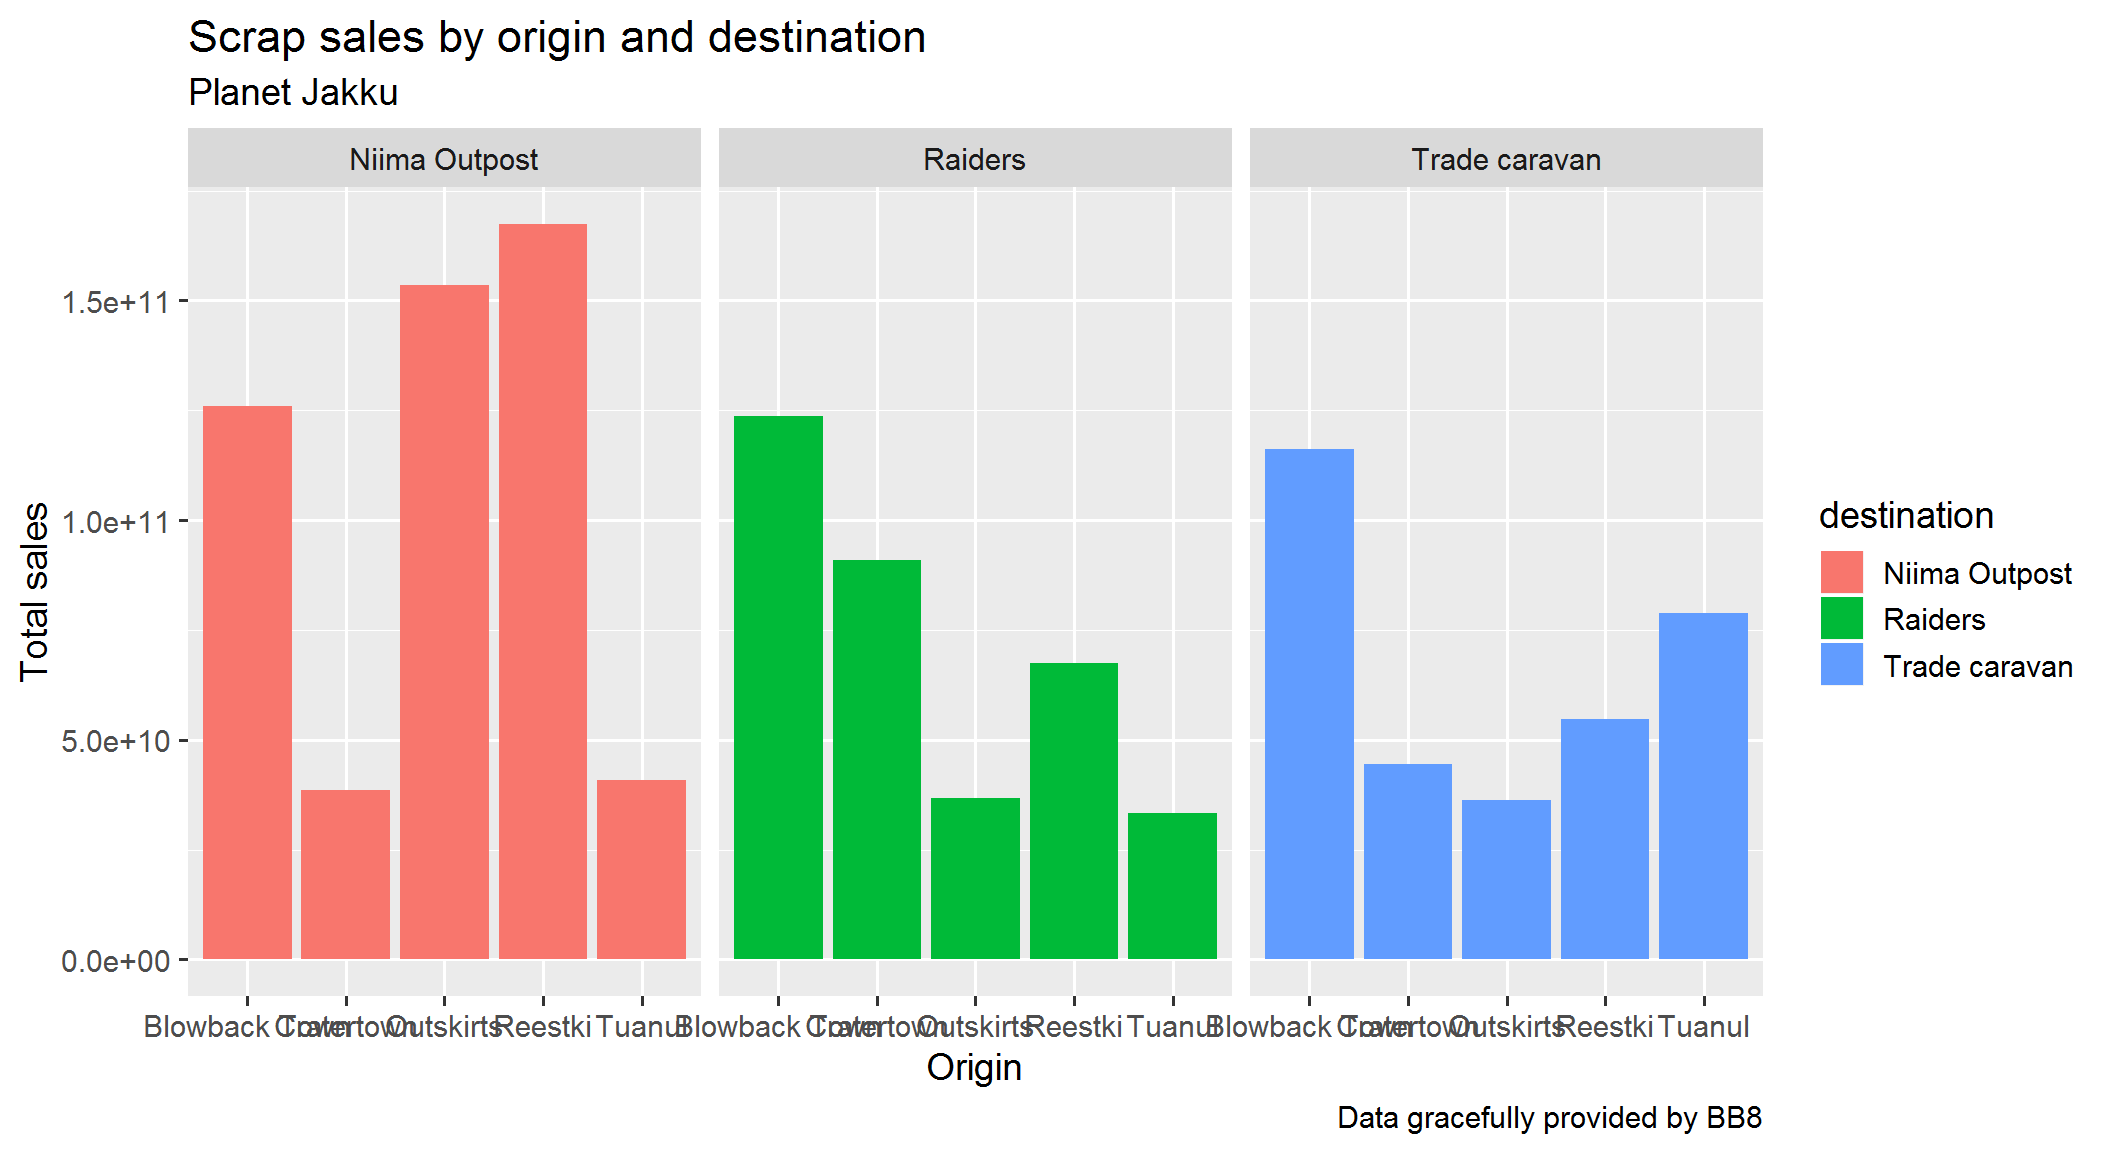
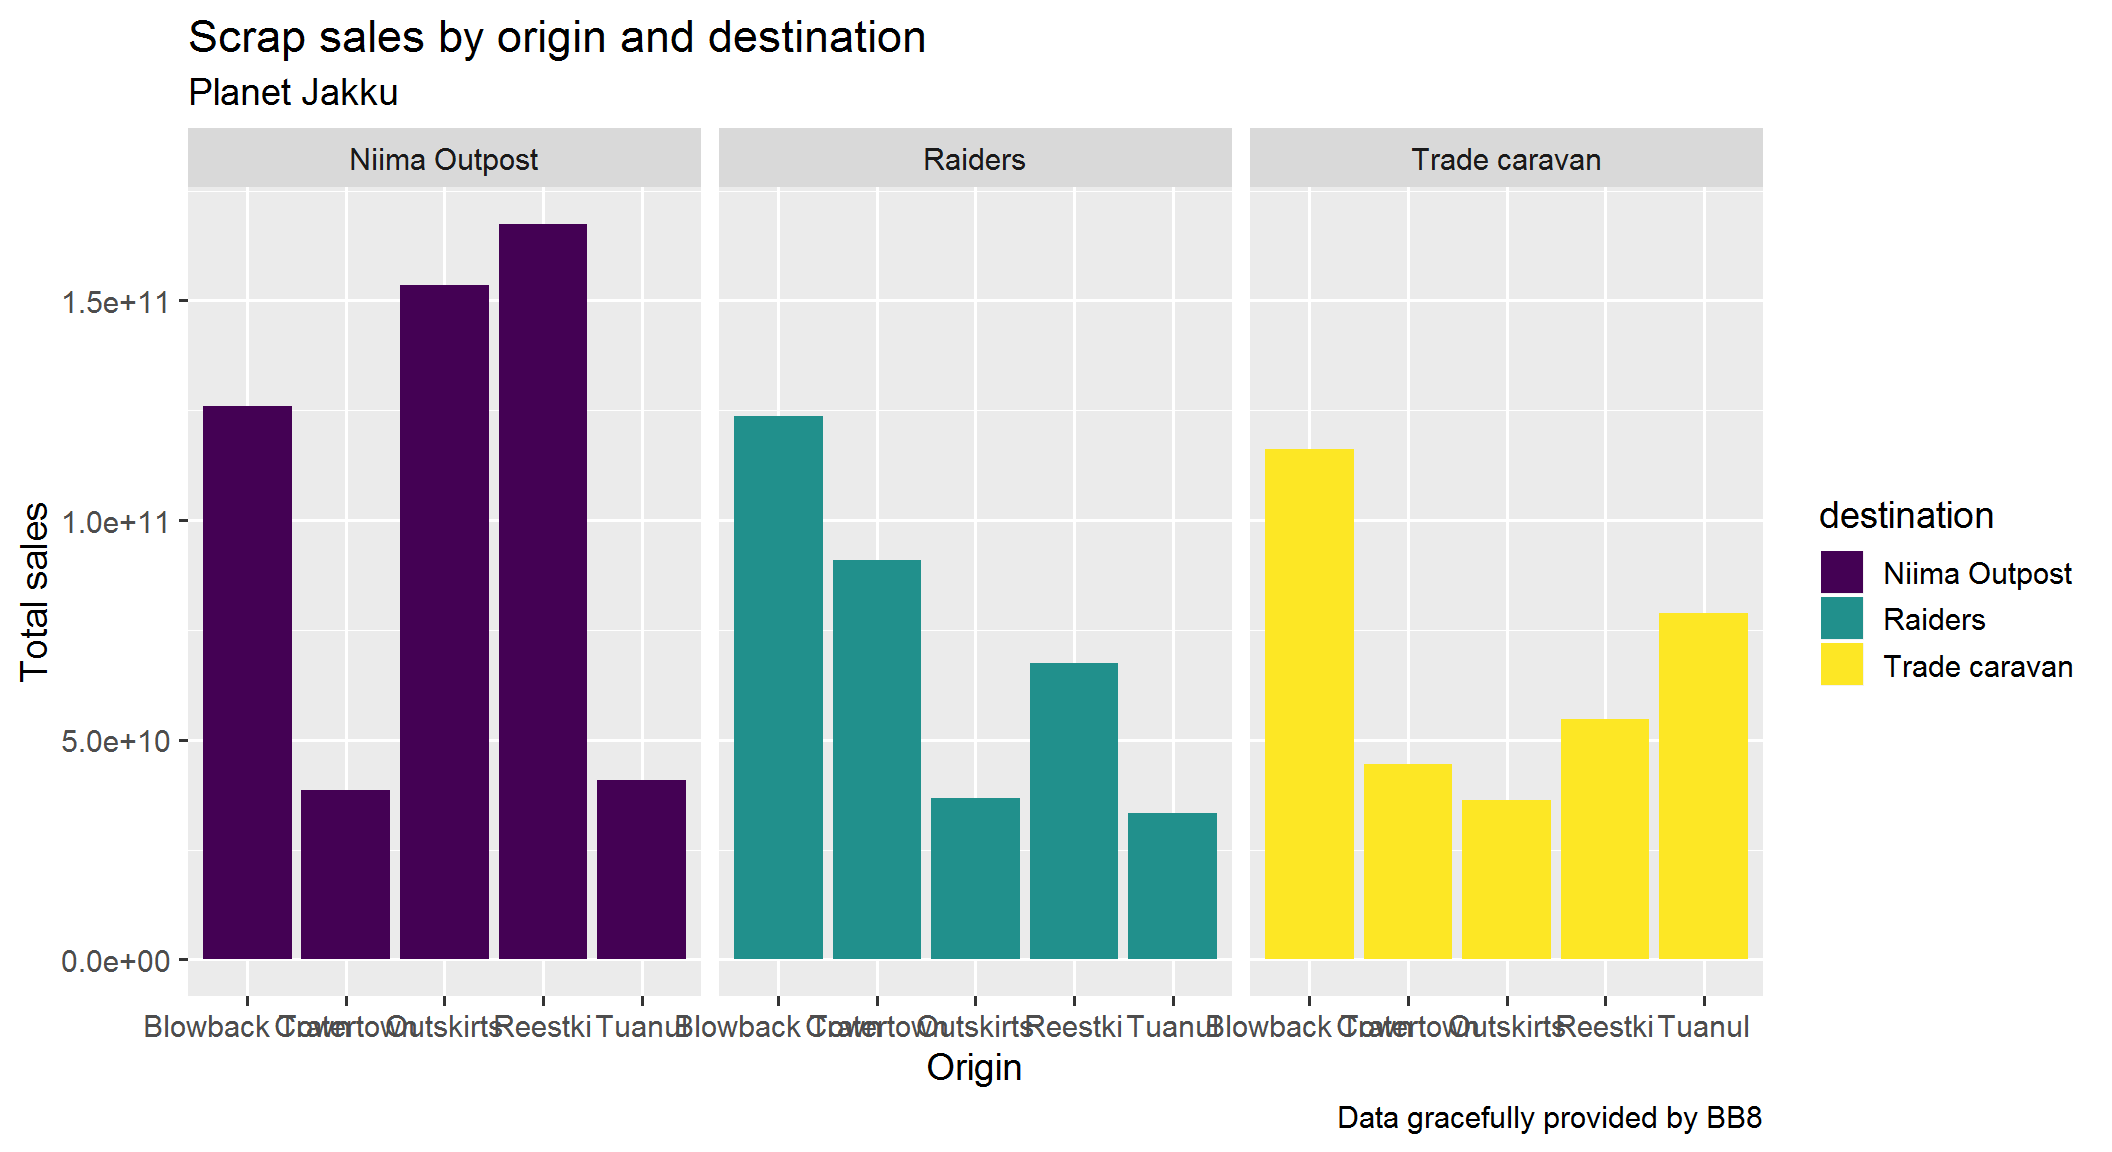
add chart options

Changed region(s): [[0.0938, 0.1875, 0.9062, 0.8438]]

diff --git a/04_Day4.html b/04_Day4.html
@@ -359,7 +359,7 @@ div.tocify {
 </ul>
 <p><strong>Open a New script</strong></p>
 <ul>
-<li><strong>File &gt; New File &gt; R Script</strong></li>
+<li><code>File &gt; New File &gt; R Script</code></li>
 <li>Click the <em>floppy disk</em> save icon</li>
 <li>Give it a name: <code>04_day.R</code> will work well</li>
 </ul>
@@ -376,13 +376,13 @@ div.tocify {
 <li>More plots
 <ul>
 <li>New geoms</li>
-<li>Reference lines</li>
-<li>Faceting or Splitting by group</li>
 <li>Colors</li>
+<li>Faceting/Splitting by groups</li>
 <li>Titles</li>
 </ul></li>
 <li>Break out Finn</li>
 <li><strong>Concatulations!</strong></li>
+<li><i class="fa fa-globe" aria-hidden="true"></i> Earth data</li>
 </ul>
 </div>
 </div>
@@ -673,6 +673,7 @@ A <code>ggplot</code> has 3 ingredients.
 <div class="sourceCode"><pre class="sourceCode r"><code class="sourceCode r"><span class="kw">ggplot</span>(scrap, <span class="kw">aes</span>(<span class="dt">x =</span> origin, <span class="dt">y =</span> credits, <span class="dt">fill =</span> destination)) <span class="op">+</span>
 <span class="st">  </span><span class="kw">geom_col</span>(<span class="dt">position =</span> <span class="st">&quot;dodge&quot;</span>) <span class="op">+</span>
 <span class="st">  </span><span class="kw">facet_wrap</span>(<span class="st">&quot;destination&quot;</span>) <span class="op">+</span>
+<span class="st">  </span><span class="kw">scale_fill_viridis_d</span>() <span class="op">+</span>
 <span class="st">  </span><span class="kw">labs</span>(<span class="dt">title    =</span> <span class="st">&quot;Scrap sales by origin and destination&quot;</span>, 
        <span class="dt">subtitle =</span> <span class="st">&quot;Planet Jakku&quot;</span>,
        <span class="dt">x        =</span> <span class="st">&quot;Origin&quot;</span>, 
@@ -690,10 +691,11 @@ A <code>ggplot</code> has 3 ingredients.
 <span class="kw">ggplot</span>(scrap, <span class="kw">aes</span>(<span class="dt">x =</span> origin, <span class="dt">y =</span> credits, <span class="dt">fill =</span> destination)) <span class="op">+</span>
 <span class="st">  </span><span class="kw">geom_col</span>(<span class="dt">position =</span> <span class="st">&quot;dodge&quot;</span>) <span class="op">+</span>
 <span class="st">  </span><span class="kw">facet_wrap</span>(<span class="st">&quot;destination&quot;</span>) <span class="op">+</span>
-<span class="st">  </span><span class="kw">theme_bw</span>() <span class="op">+</span>
+<span class="st">  </span><span class="kw">scale_fill_viridis_d</span>() <span class="op">+</span>
 <span class="st">  </span><span class="kw">labs</span>(<span class="dt">title =</span> <span class="st">&quot;Scrap sales by origin and destination&quot;</span>, 
        <span class="dt">x     =</span> <span class="st">&quot;Origin&quot;</span>, 
-       <span class="dt">y     =</span> <span class="st">&quot;Total sales&quot;</span>)</code></pre></div>
+       <span class="dt">y     =</span> <span class="st">&quot;Total sales&quot;</span>) <span class="op">+</span>
+<span class="st">  </span><span class="kw">theme_bw</span>()</code></pre></div>
 <p><img src="04_Day4_files/figure-html/unnamed-chunk-18-1.png" width="1056" /></p>
 <p><br></p>
 <div class="note">
@@ -709,7 +711,7 @@ A <code>ggplot</code> has 3 ingredients.
 <p><br></p>
 <div class="tip">
 <h3 id="exercise-2" class="unnumbered"><i class="fa fa-bicycle" aria-hidden="true" style="color: green"></i> EXERCISE</h3>
-<p>Be brave and make a boxplot. We’ve covered how to do a scatterplot with <code>geom_point</code> and a bar chart with <code>geom_col</code>, but how would you make a boxplot showing the prices at each destination? You’re on your own here. Feel free to add <code>color</code> ,<code>facet_wrap</code>, <code>theme</code>, and <code>labs</code> to your boxplots.</p>
+<p>Venture forth and make a boxplot. We’ve covered how to do a scatterplot with <code>geom_point</code> and a column chart with <code>geom_col</code>, but how would you make a boxplot showing the prices at each destination? You’re on your own here. Feel free to seek help and to spice things up with <code>color</code> ,<code>facet_wrap</code>, <code>theme</code>, and <code>labs</code>.</p>
 <p><em>May the force be with you.</em></p>
 </div>
 </div>
@@ -843,7 +845,7 @@ my_plot &lt;-<span class="st"> </span><span class="kw">ggplot</span>(...) <span 
 <p><br></p>
 </div>
 <div id="homeworld-training" class="section level1 unnumbered">
-<h1>Homeworld training</h1>
+<h1>| Homeworld training</h1>
 <div class="figure">
 <img src="images/porg.png" style="float: right; margin-top: -34px;" />
 
